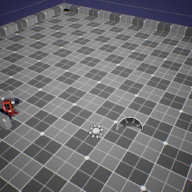
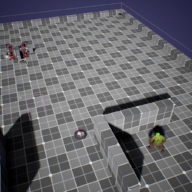
commit- Pickup- GameMode
Pickup- Added Score/Time Pickup
GameMode- Added Functions to optimize funcionality

diff --git a/ToonTanksV1/Source/ToonTanksV1/BasePickup.cpp b/ToonTanksV1/Source/ToonTanksV1/BasePickup.cpp
@@ -5,6 +5,7 @@
 #include "Components/SphereComponent.h"
 #include "DrawDebugHelpers.h"
 #include "Kismet/GameplayStatics.h"
+#include "ToonTanksGameMode.h"
 #include "Tank.h"
 
 
@@ -27,6 +28,7 @@ ABasePickup::ABasePickup()
 	//ParticlePicked->SetupAttachment(SphereComp);
 	
 	SphereComp->OnComponentBeginOverlap.AddDynamic(this, &ABasePickup::OnComponentBeginOverlap);
+
 }
 
 // Called when the game starts or when spawned
@@ -35,6 +37,8 @@ void ABasePickup::BeginPlay()
 	Super::BeginPlay();
 
 	Tank = Cast<ATank>(UGameplayStatics::GetPlayerPawn(this, 0));
+
+	ToonTanksGameMode = Cast<AToonTanksGameMode>(UGameplayStatics::GetGameMode(this));
 
 }
 
@@ -48,7 +52,7 @@ void ABasePickup::OnComponentBeginOverlap(UPrimitiveComponent* OverlappedComp, A
 			{
 				Tank->bPowerUpFireActive = true;
 			}
-			if (HealthPickup)
+			else if (HealthPickup)
 			{
 				if (Tank->Health == 100.0f)
 				{
@@ -59,9 +63,17 @@ void ABasePickup::OnComponentBeginOverlap(UPrimitiveComponent* OverlappedComp, A
 					Tank->Health += 25.0f;
 				}
 			}
-			if (TeleportPickup)
+			else if (TeleportPickup)
 			{
 				Tank->SetActorLocation(TeleportLocation, false, nullptr, ETeleportType::None);
+			}
+			else if (AddTime)
+			{
+				ToonTanksGameMode->AddSeconds();
+			}
+			else if (AddScore)
+			{
+				ToonTanksGameMode->AddScore();
 			}
 			//ParticlePicked->InitializeSystem();
 			//ParticlePicked->Activate(true);

diff --git a/ToonTanksV1/Source/ToonTanksV1/ToonTanksGameMode.cpp b/ToonTanksV1/Source/ToonTanksV1/ToonTanksGameMode.cpp
@@ -24,27 +24,32 @@ void AToonTanksGameMode::ActorDied(AActor* DeadActor)
     else if (ATower* DestroyedTower = Cast<ATower>(DeadActor))
     {
         DestroyedTower->HandleDestruction();
-        Seconds = Seconds + 5;
-        Score = Score + 100;
-        if (Seconds > 60)
-        {
-            Minutes = Minutes +1;
-            Seconds = Seconds - 60;
-        }
+        AddSeconds();
+        AddScore();
         --TargetTowers;
     }
     else if (ABaseMinion* DestroyedMinion = Cast<ABaseMinion>(DeadActor))
     {
         DestroyedMinion->HandleDestruction();
-        Seconds = Seconds + 5;
-        Score = Score + 150;
+        AddSeconds();
+        AddScore();
+        --TargetMinions;
+    }
+}
+
+void AToonTanksGameMode::AddSeconds() 
+{
+    Seconds = Seconds + 5;
         if (Seconds > 60)
         {
             Minutes = Minutes +1;            
             Seconds = Seconds - 60;
         }
-        --TargetMinions;
-    }
+}
+
+void AToonTanksGameMode::AddScore() 
+{
+    Score = Score + 150;
 }
 
 void AToonTanksGameMode::BeginPlay() 
@@ -81,11 +86,6 @@ void AToonTanksGameMode::Countdown()
     {
         Seconds = Seconds - 1;
     }
-    /* else if (Seconds >= 60)
-        {
-            Minutes = Minutes +1;
-            Seconds = 0;
-        } */
     else
     {
         if (Minutes == 0 && Seconds <= 0)

diff --git a/ToonTanksV1/Source/ToonTanksV1/BasePickup.h b/ToonTanksV1/Source/ToonTanksV1/BasePickup.h
@@ -51,6 +51,12 @@ private:
 	bool HealthPickup;
 
 	UPROPERTY(EditAnywhere, Category = "Type")
+	bool AddTime;
+
+	UPROPERTY(EditAnywhere, Category = "Type")
+	bool AddScore;
+
+	UPROPERTY(EditAnywhere, Category = "Type")
 	bool TeleportPickup;
 
 	UPROPERTY(EditAnywhere, Category = "Type")
@@ -58,5 +64,7 @@ private:
 
 	UFUNCTION()
 	void OnComponentBeginOverlap(UPrimitiveComponent* OverlappedComp, AActor* OtherActor, UPrimitiveComponent* OtherComp, int32 OtherBodyIndex, bool bFromSweep, const FHitResult& SweepResult);
+
+	class AToonTanksGameMode* ToonTanksGameMode;
 
 };

diff --git a/ToonTanksV1/Source/ToonTanksV1/ToonTanksGameMode.h b/ToonTanksV1/Source/ToonTanksV1/ToonTanksGameMode.h
@@ -24,6 +24,10 @@ public:
 	UPROPERTY(EditAnywhere, BlueprintReadWrite)
 	int Seconds = 0;
 
+	void AddSeconds();
+
+	void AddScore();
+
 protected:
 
 	virtual void BeginPlay() override;
